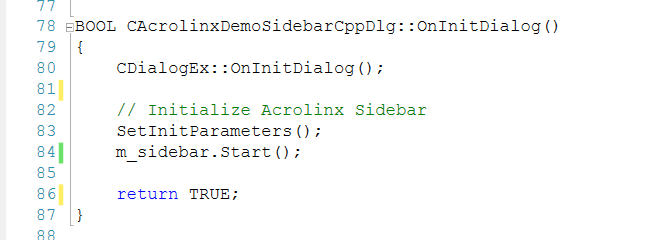
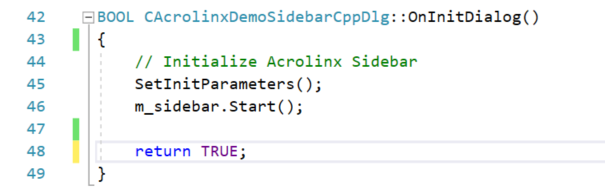
DEV-33779; docs: update readme and screenshots

Changed region(s): [[0.0298, 0.0, 0.8926, 1.0], [0.1785, 0.7754, 0.4165, 0.8556]]

diff --git a/Acrolinx.Demo.Sidebar.Cpp/Acrolinx.Demo.Sidebar.CppDlg.cpp b/Acrolinx.Demo.Sidebar.Cpp/Acrolinx.Demo.Sidebar.CppDlg.cpp
@@ -41,31 +41,9 @@ END_MESSAGE_MAP()
 
 BOOL CAcrolinxDemoSidebarCppDlg::OnInitDialog()
 {
-    CDialogEx::OnInitDialog();
-
-    InitializeResizer();
-
-    // Set the icon for this dialog.  The framework does this automatically
-    //  when the application's main window is not a dialog
-    SetIcon(m_hIcon, TRUE);			// Set big icon
-    SetIcon(m_hIcon, FALSE);		// Set small icon
-
-    //Set default text in Edit Control
-    m_textbox.SetWindowTextW(L"This texxt contains intentional errorrs.\r\nAnother kine containning mistakas.");
-    m_format.SetCurSel(2);
-
-    //Set combo box read-only
-    CEdit* comboBoxEditControl = (CEdit*)m_format.GetWindow(GW_CHILD);
-    comboBoxEditControl->SetReadOnly();
-
-    RegisterControlForAutoSizing(IDC_ACROLINXSIDEBAR1, 0, 0, 100, 100);
-    RegisterControlForAutoSizing(IDC_DOCREFTEXTBOX, 0, 0, 100, 0);
-    RegisterControlForAutoSizing(IDC_TEXTBOX, 0, 0, 0, 100);
-
     // Initialize Acrolinx Sidebar
     SetInitParameters();
     m_sidebar.Start();
-
 
     return TRUE;  // return TRUE  unless you set the focus to a control
 }
@@ -122,7 +100,7 @@ void CAcrolinxDemoSidebarCppDlg::SetInitParameters(void)
     //m_sidebar.SetStartPageSourceLocation(_T("e:\\startpage\\Acrolinx.Startpage.dll"));
 
     //m_sidebar.SetClientSignature("ASK_ACROLINX_FOR_A_CLIENT_SIGNATURE");
-    m_sidebar.SetClientSignature(_T("signature-provided-by-acrolinx"));
+    m_sidebar.SetClientSignature(_T("SW50ZWdyYXRpb25EZXZlbG9wbWVudERlbW9Pbmx5"));
     m_sidebar.SetSupportCheckSelection(true);
 
     /*

diff --git a/Acrolinx.Adapter.Demo.Sidebar.Cpp/Acrolinx.Adapter.Demo.Sidebar.CppDlg.cpp b/Acrolinx.Adapter.Demo.Sidebar.Cpp/Acrolinx.Adapter.Demo.Sidebar.CppDlg.cpp
@@ -112,7 +112,7 @@ void CAcrolinxAdapterDemoSidebarCppDlg::SetInitParameters(void)
     //m_sidebar.SetStartPageSourceLocation(_T("e:\\startpage\\Acrolinx.Startpage.dll"));
 
     //m_sidebar.SetClientSignature("ASK_ACROLINX_FOR_A_CLIENT_SIGNATURE");
-    m_sidebar.SetClientSignature(_T("signature-provided-by-acrolinx"));
+    m_sidebar.SetClientSignature(_T("SW50ZWdyYXRpb25EZXZlbG9wbWVudERlbW9Pbmx5"));
     m_sidebar.SetSupportCheckSelection(true);
 
     /*

diff --git a/README.md b/README.md
@@ -36,34 +36,36 @@ Before you start developing your own integration, you might benefit from looking
 
 ### Run Locally
 
-1. Make sure that you have installed Microsoft Visual Studio with C++ support version 2010.
-2. Download and install [Acrolinx.Sidebar.SDK](https://github.com/acrolinx/sidebar-sdk-cpp/releases)
-3. Open [`Acrolinx.Demo.Sidebar.Cpp.sln`](Acrolinx.Demo.Sidebar.Cpp.sln) in Visual Studio.
-4. Build and run the solution (F5).
+1. Make sure that you have installed Microsoft Visual Studio 2017 with C++ support (MSVC anf MFC)
+2. Open [`Acrolinx.Demo.Sidebar.Cpp.sln`](Acrolinx.Demo.Sidebar.Cpp.sln) in Visual Studio.
+3. Build and run the solution (F5).
 
 ![Screenshot of C++ Sidebar Example](/doc/sample.png)
 
 ### Using the SDK
 
 1. Open the solution file `Acrolinx.Demo.Sidebar.Cpp.sln` with Visual Studio.
-2. After you register Acrolinx.Sidebar.SDK.dll, you can start using it in your project.
+2. Add C++ SDK as dependency from [Nuget](https://www.nuget.org/packages/Acrolinx.Sidebar.SDK.CPP/)
+3. Register the Acrolinx.Sidebar.SDK.dll from `packages\Acrolinx.Sidebar.SDK.CPP.<version>\lib\<architecture>`
+4. Use `/scripts/RegisterAcrolinx.bat` or `regsvr32 Acrolinx.Sidebar.SDK.dll` ro register the Dll.
+5. After you register Acrolinx.Sidebar.SDK.dll, you can start using it in your project.
    In the Designer View of your dialog, insert Acrolinx Sidebar Control from ActiveX Control list.
    ![Choose Items](/doc/chooseitems.png)
-3. You should be able to see Acrolinx Sidebar on your dialog.
-4. Usually you dock the Acrolinx Sidebar to the right side of your dialog:
+6. You should be able to see Acrolinx Sidebar on your dialog.
+7. Usually you dock the Acrolinx Sidebar to the right side of your dialog:
    ![Dialog](/doc/dialog1.png)
-5. Set the test signature: `SW50ZWdyYXRpb25EZXZlbG9wbWVudERlbW9Pbmx5`.
-6. Somewhere in your initialization code, tell the Sidebar to start:
+8. Set the test signature: `SW50ZWdyYXRpb25EZXZlbG9wbWVudERlbW9Pbmx5`.
+9. Somewhere in your initialization code, tell the Sidebar to start:
 
     ```cpp
     m_sidebar.Start();
     ```
 
     ![Start Sidebar](/doc/startcode.png)
-7. Run the application. If you see the Acrolinx Sidebar, then everything went well.
-8. The next step is to implement the extraction and the events of the Sidebar.
+10. Run the application. If you see the Acrolinx Sidebar, then everything went well.
+11. The next step is to implement the extraction and the events of the Sidebar.
    ![Events](/doc/events.png)
-9. Have a look at the sample source code provided in the sample project.
+12. Have a look at the sample source code provided in the sample project.
 
 ## SDK Features
 
